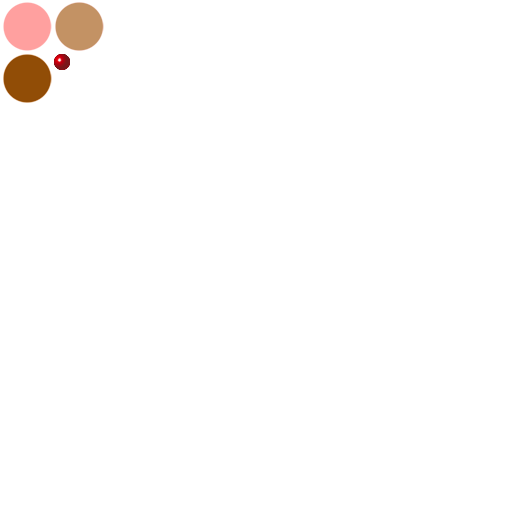
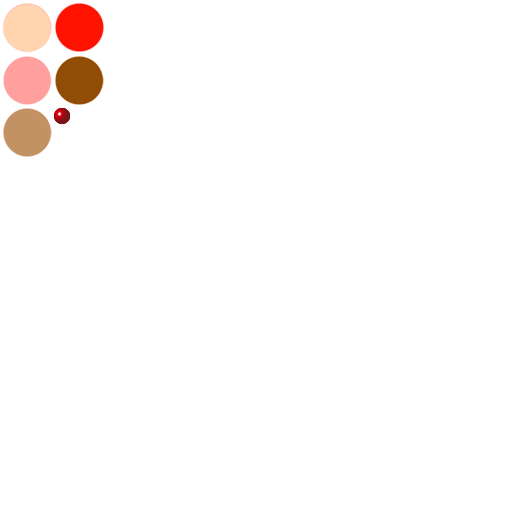
clean skin and bloody skin

Changed region(s): [[0.0, 0.0, 0.2188, 0.3125]]

diff --git a/iscab/GamePlay.m b/iscab/GamePlay.m
@@ -152,11 +152,21 @@ bool endSequenceRunning;
                 self.allWounds = [[NSMutableArray alloc] init];
                 
                 for (Wound *savedWound in oldSavedArray) {
-                    Wound *wound = [[[Wound alloc] initWithSpriteFrameName:[NSString stringWithFormat:@"scab%d.png", savedWound.scabNo]] autorelease];
-                    [wound setTexture:[[CCTexture2D alloc] initWithImage:[UIImage imageNamed:@"wound0.png"]]];                    
+                    
+                    NSString *woundType;
+                    if (savedWound.clean) {
+                        woundType = @"clean_skin0.png";
+                    } else if (!savedWound.clean && savedWound.bleeding) {
+                        woundType = @"bloody_skin0.png";
+                    } else {
+                        woundType = @"wound0.png";
+                    }
+
+                    Wound *wound = [[[Wound alloc] initWithSpriteFrameName:woundType] autorelease];
                     wound.position = savedWound.savedLocation;
                     wound.savedLocation = savedWound.savedLocation;
                     wound.scabNo = savedWound.scabNo;
+                    wound.clean = savedWound.clean;
                     wound.bleeding = savedWound.bleeding;
                     
                     [self.allWounds addObject:wound];
@@ -387,23 +397,37 @@ bool endSequenceRunning;
     [self removeScab:chunk initing:NO];
 }
 
-- (void)createWound:(ScabChunk *)scab {    
+
+- (void)splatterBlood:(ScabChunk *)scab {
     CCParticleMyBlood *particles = [[CCParticleMyBlood alloc] init];
     particles.texture = [[CCTextureCache sharedTextureCache] addImage:@"blood.png"];
     particles.position = scab.position;
     [self addChild:particles z:9];
-    particles.autoRemoveOnFinish = YES;
-        
-    //Wound *wound = [[[Wound alloc] initWithSpriteFrameName:[NSString stringWithFormat:@"scab%d.png", scab.scabNo]] autorelease];
-    //[wound setTexture:[[CCTexture2D alloc] initWithImage:[UIImage imageNamed:@"wound0.png"]]];
-    Wound *wound = [[[Wound alloc] initWithSpriteFrameName:[NSString stringWithFormat:@"wound0.png", 0]] autorelease];
+    particles.autoRemoveOnFinish = YES; 
+}
+
+- (void)createWound:(ScabChunk *)scab cleanSkin:(bool)clean {    
+    [self splatterBlood:scab];
+    
+    bool bleeding = (!clean && (arc4random() % 10 == 1)) ? TRUE : FALSE;
+    NSString *woundType;
+    if (clean) {
+        woundType = @"clean_skin0.png";
+    } else if (!clean && bleeding) {
+        woundType = @"bloody_skin0.png";
+    } else {
+        woundType = @"wound0.png";
+    }
+
+    Wound *wound = [[[Wound alloc] initWithSpriteFrameName:woundType] autorelease];
     wound.position = scab.savedLocation;
     wound.savedLocation = scab.savedLocation;
     wound.scabNo = scab.scabNo;
-    wound.bleeding = (arc4random() % 10 == 1) ? TRUE : FALSE;
+    wound.clean = clean;
+    wound.bleeding = bleeding;
     
     if (wound.bleeding) {
-        CCMotionStreak *streak = [[CCMotionStreak streakWithFade:10000.0f minSeg:1 image:@"blood.png" width:10 length:10 color:ccc4(255,255,255,255)] autorelease];
+        CCMotionStreak *streak = [[CCMotionStreak streakWithFade:10000.0f minSeg:1 image:@"blood_streak.png" width:10 length:10 color:ccc4(255,255,255,255)] autorelease];
         
         streak.position = wound.savedLocation;
         [self addChild:streak];
@@ -440,7 +464,7 @@ bool endSequenceRunning;
         [streak removeFromParentAndCleanup:YES];
     }
     allBlood = [[NSMutableArray alloc] init];
-    
+        
     [self updateBackground];
     [self generateScabs];
     endSequenceRunning = false;

diff --git a/iscab/IScabSprite.m b/iscab/IScabSprite.m
@@ -179,6 +179,76 @@
         };
         
         [self addBodyWithVerts:verts atLocation:location numVerts:11 collisionType:BLOOD_COLLISION_TYPE];
+    } else if ([filename isEqualToString:@"clean_skin0.png"]) {
+        CGPoint verts[] = {
+            cpv(-4.0f, -25.0f),
+            cpv(-8.0f, -24.0f),
+            cpv(-12.0f, -22.0f),
+            cpv(-15.0f, -20.0f),
+            cpv(-19.0f, -16.0f),
+            cpv(-21.0f, -13.0f),
+            cpv(-22.0f, -11.0f),
+            cpv(-24.0f, -4.0f),
+            cpv(-24.0f, 2.0f),
+            cpv(-22.0f, 9.0f),
+            cpv(-18.0f, 15.0f),
+            cpv(-16.0f, 17.0f),
+            cpv(-13.0f, 19.0f),
+            cpv(-7.0f, 22.0f),
+            cpv(-2.0f, 23.0f),
+            cpv(1.0f, 23.0f),
+            cpv(6.0f, 22.0f),
+            cpv(9.0f, 21.0f),
+            cpv(13.0f, 19.0f),
+            cpv(19.0f, 13.0f),
+            cpv(21.0f, 10.0f),
+            cpv(22.0f, 8.0f),
+            cpv(23.0f, 5.0f),
+            cpv(23.0f, -7.0f),
+            cpv(22.0f, -10.0f),
+            cpv(20.0f, -14.0f),
+            cpv(17.0f, -18.0f),
+            cpv(16.0f, -19.0f),
+            cpv(10.0f, -23.0f),
+            cpv(3.0f, -25.0f)
+        };
+        
+        [self addBodyWithVerts:verts atLocation:location numVerts:30 collisionType:WOUND_COLLISION_TYPE];
+    } else if ([filename isEqualToString:@"bloody_skin0.png"]) {
+        CGPoint verts[] = {
+            cpv(-2.0f, -25.0f),
+            cpv(-7.0f, -24.0f),
+            cpv(-10.0f, -23.0f),
+            cpv(-16.0f, -19.0f),
+            cpv(-18.0f, -17.0f),
+            cpv(-20.0f, -14.0f),
+            cpv(-23.0f, -8.0f),
+            cpv(-24.0f, -3.0f),
+            cpv(-24.0f, 1.0f),
+            cpv(-23.0f, 6.0f),
+            cpv(-20.0f, 12.0f),
+            cpv(-18.0f, 15.0f),
+            cpv(-16.0f, 17.0f),
+            cpv(-10.0f, 21.0f),
+            cpv(-7.0f, 22.0f),
+            cpv(-2.0f, 23.0f),
+            cpv(2.0f, 23.0f),
+            cpv(7.0f, 22.0f),
+            cpv(13.0f, 19.0f),
+            cpv(20.0f, 12.0f),
+            cpv(22.0f, 8.0f),
+            cpv(23.0f, 5.0f),
+            cpv(24.0f, 0.0f),
+            cpv(24.0f, -2.0f),
+            cpv(23.0f, -7.0f),
+            cpv(22.0f, -10.0f),
+            cpv(20.0f, -14.0f),
+            cpv(13.0f, -21.0f),
+            cpv(7.0f, -24.0f),
+            cpv(2.0f, -25.0f)
+        };
+        
+        [self addBodyWithVerts:verts atLocation:location numVerts:30 collisionType:WOUND_COLLISION_TYPE];
     }
 }
 

diff --git a/iscab/Wound.m b/iscab/Wound.m
@@ -10,13 +10,14 @@
 
 @implementation Wound
 
-@synthesize scabNo, bleeding;
+@synthesize scabNo, bleeding, clean;
 
 - (void)encodeWithCoder:(NSCoder *)coder {
     [coder encodeInt:self.position.x forKey:@"xPos"]; 
     [coder encodeInt:self.position.y forKey:@"yPos"]; 
     [coder encodeInt:self.scabNo forKey:@"scabNo"];
     [coder encodeBool:self.bleeding forKey:@"bleeding"];
+    [coder encodeBool:self.clean forKey:@"clean"];
 } 
 
 - (id)initWithCoder:(NSCoder *)coder {    
@@ -26,6 +27,7 @@
         self.savedLocation = ccp([coder decodeIntForKey:@"xPos"], [coder decodeIntForKey:@"yPos"]);
         self.scabNo = [coder decodeIntForKey:@"scabNo"];
         self.bleeding = [coder decodeBoolForKey:@"bleeding"];
+        self.clean = [coder decodeBoolForKey:@"clean"];
     }
     
     return self; 

diff --git a/iscab/ScabChunk.m b/iscab/ScabChunk.m
@@ -19,7 +19,13 @@
 - (void)ripOffScab {
     free= YES;
     [[SimpleAudioEngine sharedEngine] playEffect:@"scabrip.wav"];
-    [(GamePlay *)[[[CCDirector sharedDirector] runningScene] getChildByTag:1] createWound:self];
+    
+    NSLog(@"LOCALE %@", NSStringFromCGPoint(self.savedLocation));
+    if (ccpDistance(self.savedLocation, ccp(230, 160)) < 150.0) {
+        [(GamePlay *)[[[CCDirector sharedDirector] runningScene] getChildByTag:1] createWound:self cleanSkin:NO];
+    } else {
+        [(GamePlay *)[[[CCDirector sharedDirector] runningScene] getChildByTag:1] createWound:self cleanSkin:YES];
+    }
 }
 
 - (void)encodeWithCoder:(NSCoder *)coder {

diff --git a/iscab/GamePlay.h b/iscab/GamePlay.h
@@ -33,7 +33,7 @@
 - (void)removeScab:(ScabChunk *)chunk;
 - (void)generateScabs;
 - (void)clearLowerScabs:(ScabChunk *)newScab;
-- (void)createWound:(ScabChunk *)scab;
+- (void)createWound:(ScabChunk *)scab cleanSkin:(bool)clean;
 - (ScabChunk *)createScab:(CGPoint)coordinates usingScabIndex:(int)scabIndex havingPriority:(int)priority;
 - (void)removeScab:(ScabChunk *)scab initing:(bool)initing;
 - (void)displaySavedBoard;

diff --git a/iscab/Wound.h b/iscab/Wound.h
@@ -13,8 +13,10 @@
 @interface Wound : IScabSprite <NSCoding> {
     int scabNo;
     bool bleeding;
+    bool clean;
 }
 
+@property (nonatomic, assign) bool clean;
 @property (nonatomic, assign) bool bleeding;
 @property (nonatomic, assign) int scabNo;
 
